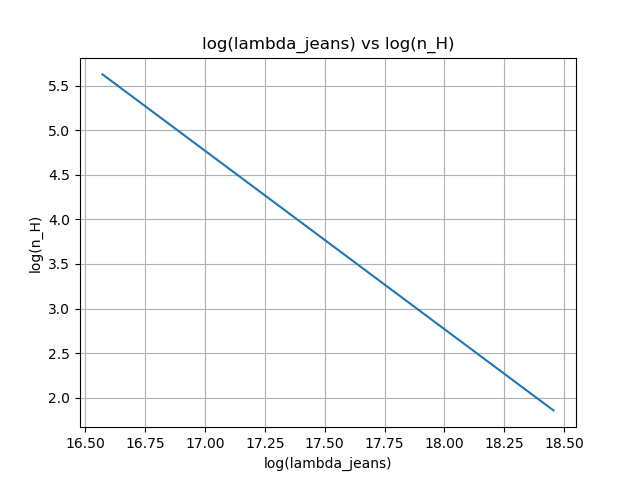
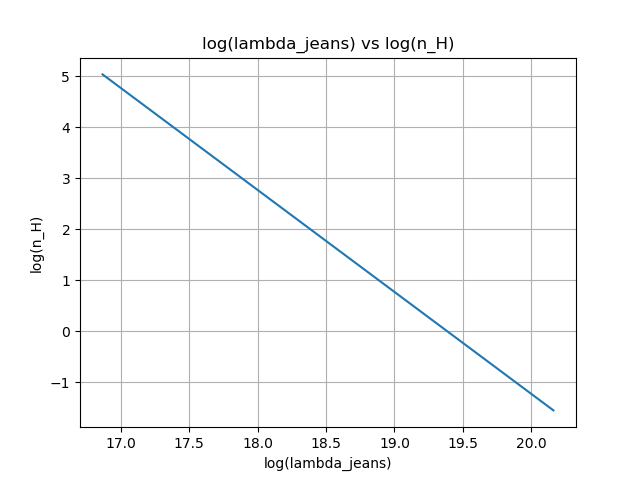
Major Changes in lieu with Draine's formula
I have tried to incorporate smaller values of n_H while plotting with X_H2.
For this I had to do the following changes in the code:
(1) I had to change n_H_mean (in formula n_H = n_H_mean * exp(s) ) from 10^4 to 10^2.
(2) I had to change the range (smin, smax) from (-4*sigma_s + s_bar, 4*sigma_s + s_bar) to (-7*sigma_s + s_bar, 7*sigma_s + s_bar).
I didn't change the mach number, it is still 5.

After changing the above parameters, I noticed that now all of the values are quite "stable", i.e., they converge to the 4th decimal place right after the 1st iteration, but I don't know if this is desirable or not.

Also, I used testing.py and 'for testing' folder to plot all the iterations for log(n_H) vs X_H2. But since there are 11 iterations, I thought making a gif would be a good method to easily notice the convergence.

diff --git a/testing.py b/testing.py
@@ -1,3 +1,238 @@
+#for plotting different iterations of the H2 self shielding using Draine's formula
+
+import numpy as np
+import matplotlib.pyplot as plt
+import os
+
+def make_pdf(s, s_bar, sigma_s):
+    pdf = (1/np.sqrt(2*np.pi*(sigma_s**2))) * (np.exp(-0.5*(((s - s_bar)/sigma_s)**2)))
+    return pdf
+
+def calc_lambda_jeans(n_H):
+    m_p = 1.672621777e-24   # g
+    T_mean = 10.            #K
+    K_b = 1.38064852e-16    # ergs K-1
+    G = 6.67408e-8          # dyne cm^2 g^-2
+    lambda_jeans = ((np.sqrt(K_b * T_mean / m_p)) / np.sqrt(4* np.pi * G * n_H * m_p))
+    return lambda_jeans
+
+def calc_n_LW(n_H, G_o, lambda_jeans):
+    m_p = 1.672621777e-24   # g
+    kappa = 1000 * m_p
+    rad_field_outside = G_o #in solar units
+    exp_tau = np.exp(-kappa * n_H * lambda_jeans)
+    n_LW = rad_field_outside * exp_tau
+    return n_LW
+
+def calc_n_LW_ss(n_H, n_H2, G_o, lambda_jeans):
+    m_p = 1.672621777e-24   # g
+    kappa = 1000 * m_p
+    rad_field_outside = G_o #in solar units
+    exp_tau = np.exp(-kappa * n_H * lambda_jeans)
+    N_H2 = n_H2*lambda_jeans
+    term1 = (0.965/((1+(N_H2/5e14))**2))
+    term2 = ( (0.035/np.sqrt(1+(N_H2/5e14))) * np.exp(-1*np.sqrt(1+(N_H2/5e14))/1180) )
+    S_H2 = term1 + term2
+    n_LW_ss = rad_field_outside * exp_tau * S_H2
+    return n_LW_ss, S_H2, N_H2
+
+def calc_X_H2(n_H, Z, n_LW):
+    DC = 1.7e-11
+    CC = 2.5e-17            #cm3 s-1
+    numerator = DC * n_LW
+    denominator = CC * Z * n_H
+    X_H2 = 1 / (2 + (numerator/denominator) )
+    return X_H2
+
+def calc_X_CO(n_H, n_H2, n_LW):
+    rate_CHX = 5.e-10 * n_LW
+    rate_CO = 1.e-10 * n_LW
+    x0 = 2.e-4
+    k0 = 5.e-16 #cm3 s-1
+    k1 = 5.e-10 #cm3 s-1
+    factor_beta = rate_CHX/(n_H*k1*x0)
+    beta = 1./(1.+factor_beta)
+    factor_CO = rate_CO/(n_H2*k0*beta)
+    X_CO = 1./(1.+factor_CO)
+    return X_CO
+
+def calc_n_CO(n_H, X_CO):
+    abundance_Ctot = 1e-4 # n_C/n_H as defined by nucleosynthesis
+    return n_H * abundance_Ctot * X_CO # CO/cc
+
+def CO_density():
+    n_LW_1 = np.zeros(1000)
+    n_LW_2 = np.zeros(1000)
+    n_LW_3 = np.zeros(1000)
+    n_LW_4 = np.zeros(1000)
+    n_LW_5 = np.zeros(1000)
+    n_LW_6 = np.zeros(1000)
+    n_LW_7 = np.zeros(1000)
+    n_LW_8 = np.zeros(1000)
+    n_LW_9 = np.zeros(1000)
+    n_LW_10 = np.zeros(1000)
+
+    X_H2_1 = np.zeros(1000)
+    X_H2_2 = np.zeros(1000)
+    X_H2_3 = np.zeros(1000)
+    X_H2_4 = np.zeros(1000)
+    X_H2_5 = np.zeros(1000)
+    X_H2_6 = np.zeros(1000)
+    X_H2_7 = np.zeros(1000)
+    X_H2_8 = np.zeros(1000)
+    X_H2_9 = np.zeros(1000)
+    X_H2_10 = np.zeros(1000)
+
+    n_H2_1 = np.zeros(1000)
+    n_H2_2 = np.zeros(1000)
+    n_H2_3 = np.zeros(1000)
+    n_H2_4 = np.zeros(1000)
+    n_H2_5 = np.zeros(1000)
+    n_H2_6 = np.zeros(1000)
+    n_H2_7 = np.zeros(1000)
+    n_H2_8 = np.zeros(1000)
+    n_H2_9 = np.zeros(1000)
+    n_H2_10 = np.zeros(1000)
+
+    S_H2_1 = np.zeros(1000)
+    S_H2_2 = np.zeros(1000)
+    S_H2_3 = np.zeros(1000)
+    S_H2_4 = np.zeros(1000)
+    S_H2_5 = np.zeros(1000)
+    S_H2_6 = np.zeros(1000)
+    S_H2_7 = np.zeros(1000)
+    S_H2_8 = np.zeros(1000)
+    S_H2_9 = np.zeros(1000)
+    S_H2_10 = np.zeros(1000)
+
+    N_H2_1 = np.zeros(1000)
+    N_H2_2 = np.zeros(1000)
+    N_H2_3 = np.zeros(1000)
+    N_H2_4 = np.zeros(1000)
+    N_H2_5 = np.zeros(1000)
+    N_H2_6 = np.zeros(1000)
+    N_H2_7 = np.zeros(1000)
+    N_H2_8 = np.zeros(1000)
+    N_H2_9 = np.zeros(1000)
+    N_H2_10 = np.zeros(1000)
+
+    s = np.zeros(1000)
+    pdf = np.zeros(1000)
+    lambda_jeans = np.zeros(1000)
+    X_H2 = np.zeros(1000)
+    n_H = np.zeros(1000)
+    n_LW = np.zeros(1000)
+    n_LW_ss = np.zeros(1000)
+    S_H2 = np.zeros(1000)
+    n_H2 = np.zeros(1000)
+    X_CO = np.zeros(1000)
+    n_CO = np.zeros(1000)
+    N_H2 = np.zeros(1000)
+    mach_no = 5
+    sigma_s = np.sqrt(np.log(1 + ((0.3 * mach_no)**2)))
+    s_bar = -0.5*(sigma_s**2)
+    smin = -7*sigma_s + s_bar
+    smax = 7*sigma_s + s_bar
+    ds = (smax - smin)/1000
+    n_H_mean = 100
+    Z = 1
+    G_o = 1
+    X_H2_a = np.zeros(1000)
+    n_H2_a = np.zeros(1000)
+
+    for i in range(0, 1000):
+        s[i] = smin + i*ds
+
+    pdf = make_pdf(s, s_bar, sigma_s)
+    n_H = n_H_mean * np.exp(s)
+    lambda_jeans = calc_lambda_jeans(n_H)
+
+    n_LW = calc_n_LW(n_H, G_o, lambda_jeans)
+    X_H2_a = calc_X_H2(n_H, Z, n_LW)
+    n_H2_a = n_H * X_H2_a
+
+    n_LW_1, S_H2_1, N_H2_1 = calc_n_LW_ss(n_H, n_H2_a, G_o, lambda_jeans)
+    X_H2_1 = calc_X_H2(n_H, Z, n_LW_1)
+    n_H2_1 = n_H * X_H2_1
+
+    n_LW_2, S_H2_2, N_H2_2 = calc_n_LW_ss(n_H, n_H2_1, G_o, lambda_jeans)
+    X_H2_2 = calc_X_H2(n_H, Z, n_LW_2)
+    n_H2_2 = n_H * X_H2_2
+
+    n_LW_3, S_H2_3, N_H2_3 = calc_n_LW_ss(n_H, n_H2_2, G_o, lambda_jeans)
+    X_H2_3 = calc_X_H2(n_H, Z, n_LW_3)
+    n_H2_3 = n_H * X_H2_3
+
+    n_LW_4, S_H2_4, N_H2_4 = calc_n_LW_ss(n_H, n_H2_3, G_o, lambda_jeans)
+    X_H2_4 = calc_X_H2(n_H, Z, n_LW_4)
+    n_H2_4 = n_H * X_H2_4
+
+    n_LW_5, S_H2_5, N_H2_5 = calc_n_LW_ss(n_H, n_H2_4, G_o, lambda_jeans)
+    X_H2_5 = calc_X_H2(n_H, Z, n_LW_5)
+    n_H2_5 = n_H * X_H2_5
+
+    n_LW_6, S_H2_6, N_H2_6 = calc_n_LW_ss(n_H, n_H2_5, G_o, lambda_jeans)
+    X_H2_6 = calc_X_H2(n_H, Z, n_LW_6)
+    n_H2_6 = n_H * X_H2_6
+
+    n_LW_7, S_H2_7, N_H2_7 = calc_n_LW_ss(n_H, n_H2_6, G_o, lambda_jeans)
+    X_H2_7 = calc_X_H2(n_H, Z, n_LW_7)
+    n_H2_7 = n_H * X_H2_7
+
+    n_LW_8, S_H2_8, N_H2_8 = calc_n_LW_ss(n_H, n_H2_7, G_o, lambda_jeans)
+    X_H2_8 = calc_X_H2(n_H, Z, n_LW_8)
+    n_H2_8 = n_H * X_H2_8
+
+    n_LW_9, S_H2_9, N_H2_9 = calc_n_LW_ss(n_H, n_H2_8, G_o, lambda_jeans)
+    X_H2_9 = calc_X_H2(n_H, Z, n_LW_9)
+    n_H2_9 = n_H * X_H2_9
+
+    n_LW_10, S_H2_10, N_H2_10 = calc_n_LW_ss(n_H, n_H2_9, G_o, lambda_jeans)
+    X_H2_10 = calc_X_H2(n_H, Z, n_LW_10)
+    n_H2_10 = n_H * X_H2_10
+
+    n_LW_ss, S_H2, N_H2 = calc_n_LW_ss(n_H, n_H2_10, G_o, lambda_jeans)
+    X_H2 = calc_X_H2(n_H, Z, n_LW_ss)
+    n_H2 = n_H * X_H2
+
+    X_CO = calc_X_CO(n_H, n_H2_a, n_LW)
+    n_CO = calc_n_CO(n_H, X_CO)
+
+    plotting(n_H, pdf, lambda_jeans, X_H2, X_CO, n_CO, S_H2, N_H2)
+    return n_H, n_H2, X_H2, n_LW, n_LW_ss, S_H2, N_H2, X_H2_a, n_H2_a, n_LW_1, n_LW_2, n_LW_3, n_LW_4, n_LW_5, n_LW_6, n_LW_7, n_LW_8, n_LW_9, n_LW_10, X_H2_1, X_H2_2, X_H2_3, X_H2_4, X_H2_5, X_H2_6, X_H2_7, X_H2_8, X_H2_9, X_H2_10, n_H2_1, n_H2_2, n_H2_3, n_H2_4, n_H2_5, n_H2_6, n_H2_7, n_H2_8, n_H2_9, n_H2_10
+
+def plotting(n_H, pdf, lambda_jeans, X_H2, X_CO, n_CO, S_H2, N_H2):
+    plt.plot(np.log10(n_H), X_H2)
+    plt.xlabel('log(n_H)')
+    plt.ylabel('X_H2')
+    plt.grid(b=True, which='both', axis='both')
+    plt.title('log(n_H) vs X_H2-iteration11')
+    plt.savefig('log(n_H)vsX_H2-iteration11.png'.format())
+    plt.clf()
+
+    plt.plot(np.log10(n_H), X_CO)
+    plt.xlabel('log(n_H)')
+    plt.ylabel('X_CO')
+    plt.grid(b=True, which='both', axis='both')
+    plt.title('log(n_H) vs X_CO-iteration11')
+    plt.savefig('log(n_H)vsX_CO-iteration11.png'.format())
+    plt.clf()
+
+    plt.plot(np.log10(N_H2), S_H2)
+    plt.xlabel('log(N_H2)')
+    plt.ylabel('S_H2')
+    plt.grid(b=True, which='both', axis='both')
+    plt.title("log(N_H2) vs S_H2-iteration11")
+    plt.savefig('log(N_H2)vsS_H2-iteration11.png'.format())
+    plt.clf()
+
+if __name__=='__main__':
+    path = 'for testing'
+    os.makedirs(path, exist_ok=True)
+    os.chdir(path)
+    n_H, n_H2, X_H2, n_LW, n_LW_ss, S_H2, N_H2, X_H2_a, n_H2_a, n_LW_1, n_LW_2, n_LW_3, n_LW_4, n_LW_5, n_LW_6, n_LW_7, n_LW_8, n_LW_9, n_LW_10, X_H2_1, X_H2_2, X_H2_3, X_H2_4, X_H2_5, X_H2_6, X_H2_7, X_H2_8, X_H2_9, X_H2_10, n_H2_1, n_H2_2, n_H2_3, n_H2_4, n_H2_5, n_H2_6, n_H2_7, n_H2_8, n_H2_9, n_H2_10 = CO_density()
+
+
 """# ---------------
 # Code for plotting X_H2 vs log(n_H) for different values of Z, mach_no, and
 # n_H_mean
@@ -187,7 +422,7 @@ if __name__=='__main__':
             plt.savefig('log(n_H)vslogPDF-diff n_H_mean.png'.format())
             plt.clf()
 """
-#plotting(s, pdf, lambda_jeans_cm, n_H, X_H2, X_H2_bar, tot_n_H_bar, tot_n_H2_bar)
+'''#plotting(s, pdf, lambda_jeans_cm, n_H, X_H2, X_H2_bar, tot_n_H_bar, tot_n_H2_bar)
 
 
 # ---------------
@@ -347,4 +582,4 @@ if __name__=='__main__':
         tot_n_H_bar = n_H * p * ds
         tot_n_H2_bar = X_H2 * tot_n_H_bar * ds
     X_H2_bar = tot_n_H_bar/tot_n_H2_bar
-    plotting(x, pdf, lambda_jeans_cm, n_H, X_H2, X_H2_bar, tot_n_H_bar, tot_n_H2_bar)
+    plotting(x, pdf, lambda_jeans_cm, n_H, X_H2, X_H2_bar, tot_n_H_bar, tot_n_H2_bar)'''

diff --git a/X_H2_self_shielding.py b/X_H2_self_shielding.py
@@ -129,10 +129,10 @@ def CO_density():
     mach_no = 5
     sigma_s = np.sqrt(np.log(1 + ((0.3 * mach_no)**2)))
     s_bar = -0.5*(sigma_s**2)
-    smin = -4*sigma_s + s_bar
-    smax = 4*sigma_s + s_bar
+    smin = -7*sigma_s + s_bar
+    smax = 7*sigma_s + s_bar
     ds = (smax - smin)/1000
-    n_H_mean = 1e4
+    n_H_mean = 100
     Z = 1
     G_o = 1
     X_H2_a = np.zeros(1000)
@@ -148,8 +148,6 @@ def CO_density():
     n_LW = calc_n_LW(n_H, G_o, lambda_jeans)
     X_H2_a = calc_X_H2(n_H, Z, n_LW)
     n_H2_a = n_H * X_H2_a
-    a_1 = X_H2_a
-    a_2 = n_H2_a
 
     n_LW_1, S_H2_1, N_H2_1 = calc_n_LW_ss(n_H, n_H2_a, G_o, lambda_jeans)
     X_H2_1 = calc_X_H2(n_H, Z, n_LW_1)
